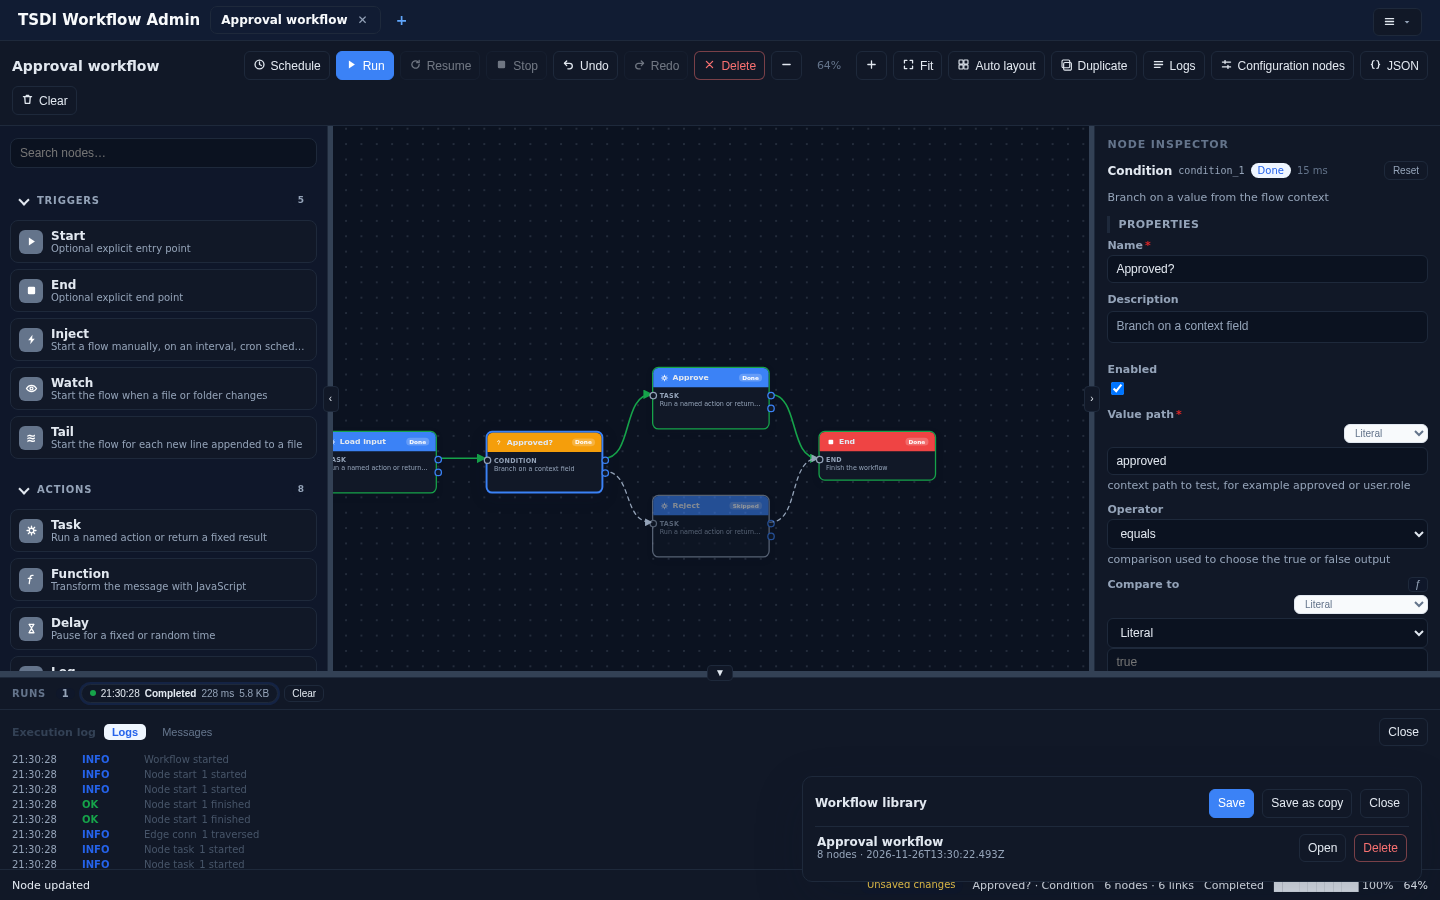
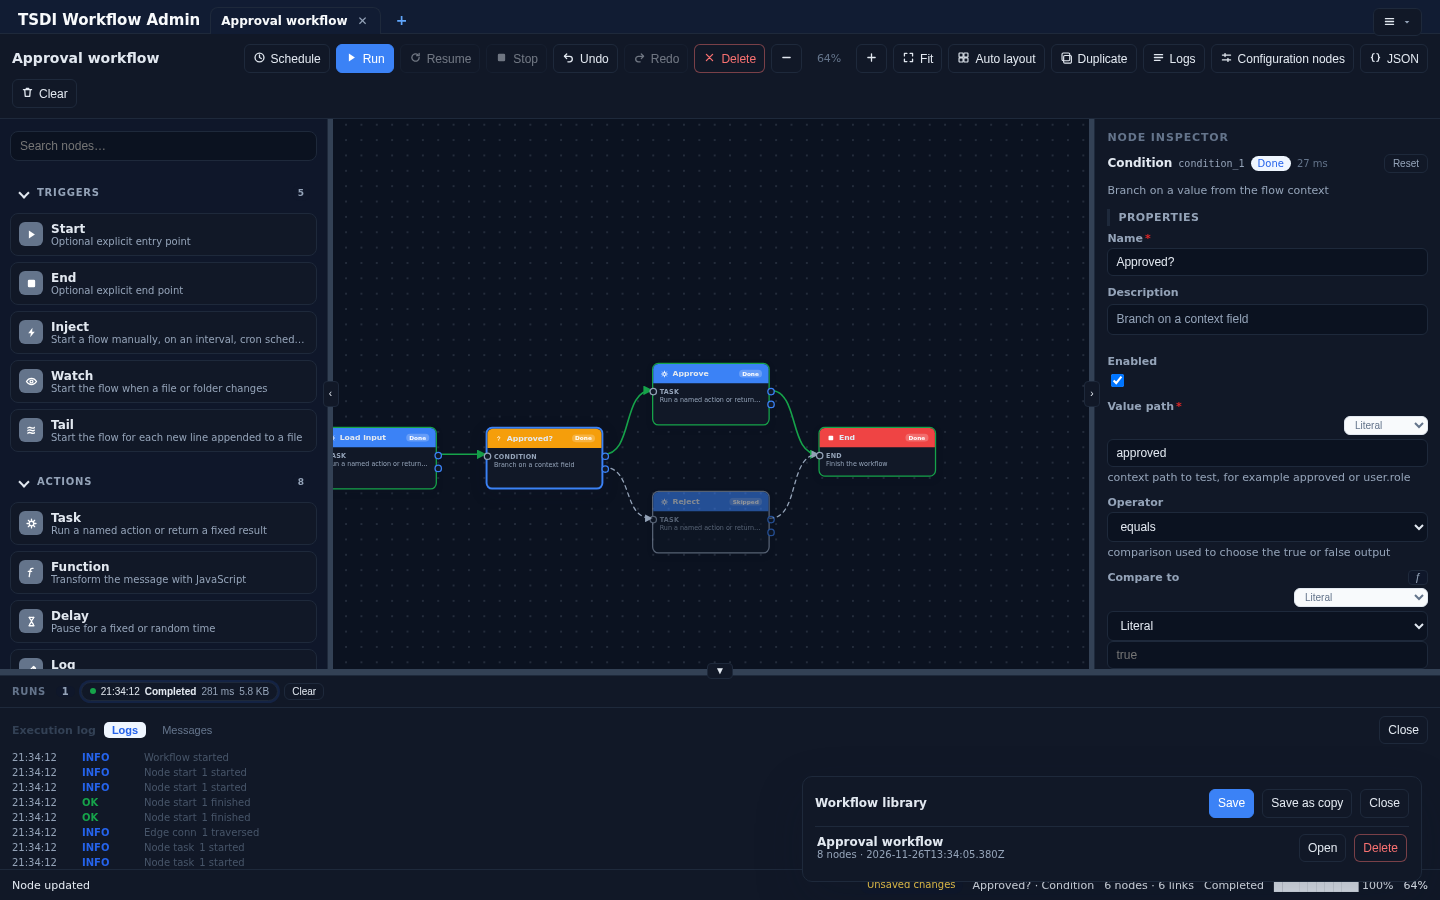
fix(workflow-admin): seat the workflow tabs on the header border
Render the header tabs as classic tabs: only the top corners are rounded, the
tab bottom has no border, and the strip overlaps the header's bottom border by
1px so the active tab's background merges with the header edge. The header
drops its bottom padding and the strip stretches to the border instead of
floating in the middle of the row.

Refresh the preview screenshot.

diff --git a/packages/workflow-admin/index.html b/packages/workflow-admin/index.html
@@ -165,7 +165,7 @@
             flex-wrap: nowrap;
             align-items: center;
             gap: 10px;
-            padding: 6px 18px;
+            padding: 6px 18px 0;
         }
         .wa-designer-shell > .designer-header h1 {
             flex: 0 0 auto;
@@ -180,6 +180,9 @@
         .wa-designer-shell .wa-header-tabs {
             flex: 1 1 auto;
             min-width: 0;
+            align-self: stretch;
+            display: flex;
+            align-items: flex-end;
             padding: 0;
             background: transparent;
             border-bottom: 0;
@@ -203,11 +206,16 @@
         .wa-designer-shell .wa-header-tabs .tab-bar {
             min-height: 0;
             padding: 0;
+            align-items: flex-end;
             border-bottom: 0;
+            /* Sit the strip on the header border; the active tab's background
+               then covers that segment so the tab joins the header edge. */
+            margin-bottom: -1px;
         }
         .wa-designer-shell .wa-header-tabs .tab {
             border: 1px solid transparent;
-            border-radius: 7px;
+            border-bottom: 0;
+            border-radius: 8px 8px 0 0;
         }
         .wa-designer-shell .wa-header-tabs .tab[aria-selected="true"] {
             border-color: var(--wa-shell-border);
